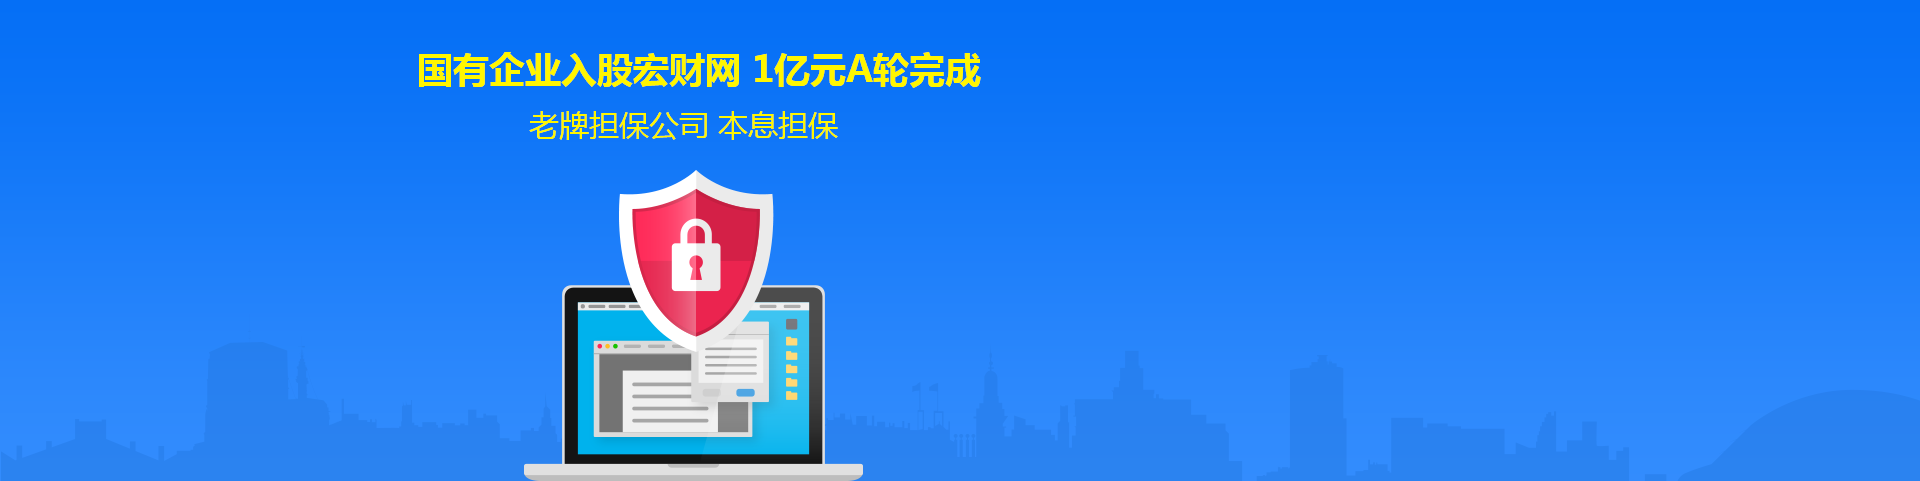
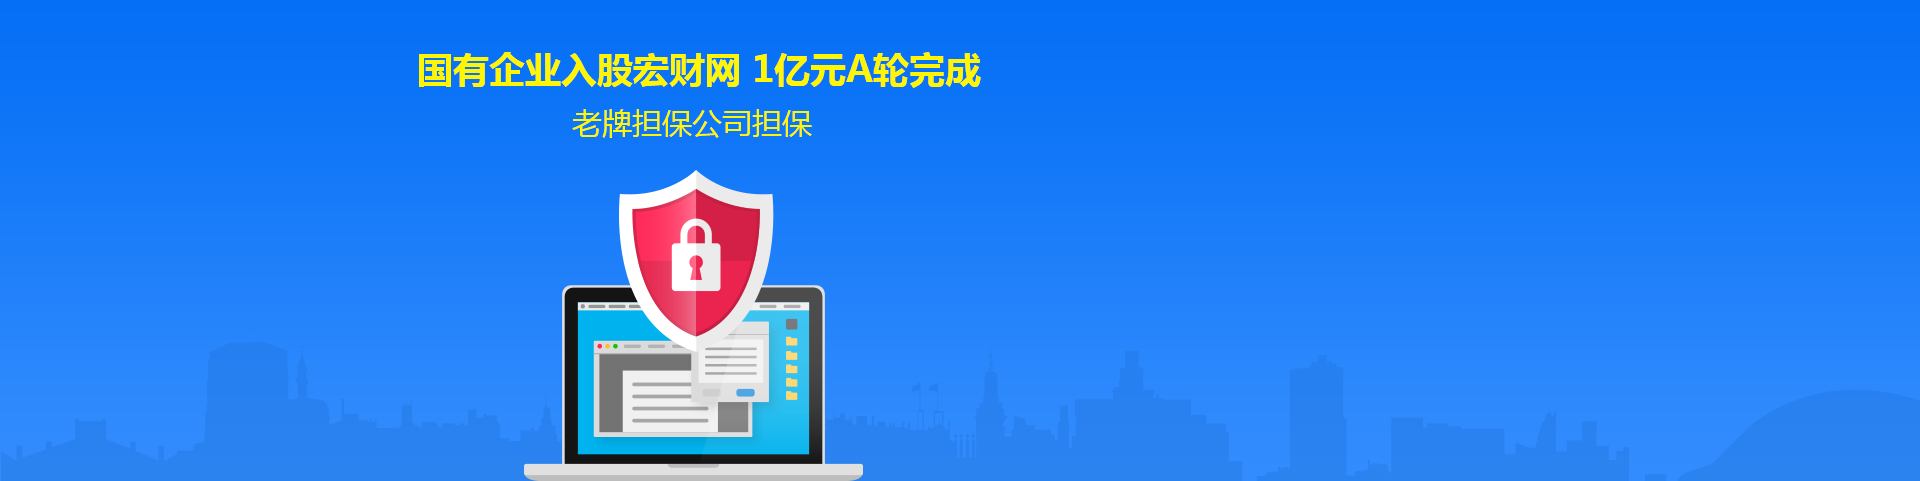
fix(login) 登录页图片文案，首页轮播图右边距

Changed region(s): [[0.2812, 0.2183, 0.4375, 0.3119]]

diff --git a/app/styles/common.less b/app/styles/common.less
@@ -2352,7 +2352,7 @@ button {
   width:378px;
   height:304px !important;
   position: absolute;
-  right: 18%;
+  right: 19%;
   top:7%;
   //width: 25%;
   background: #ffffff;
